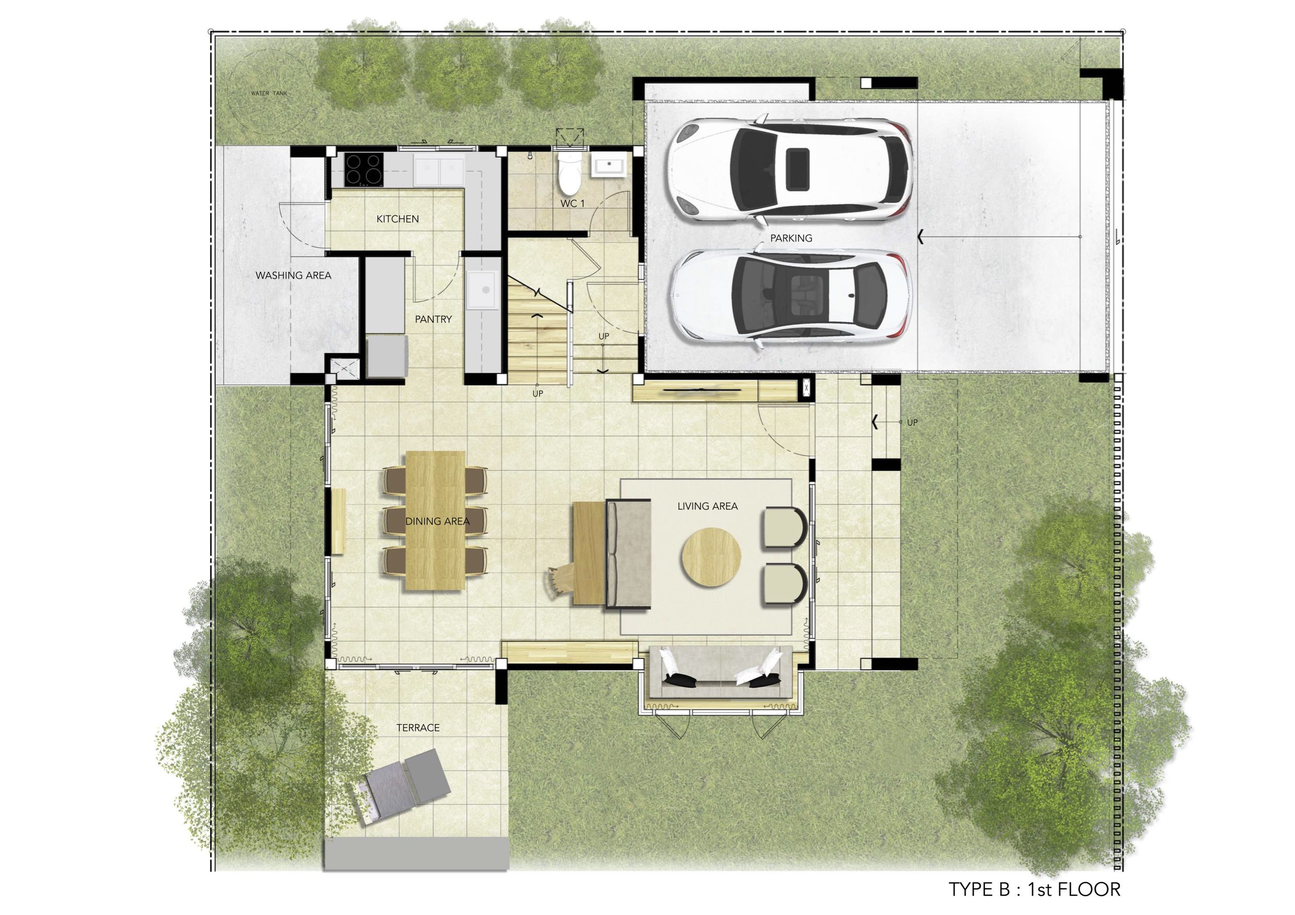
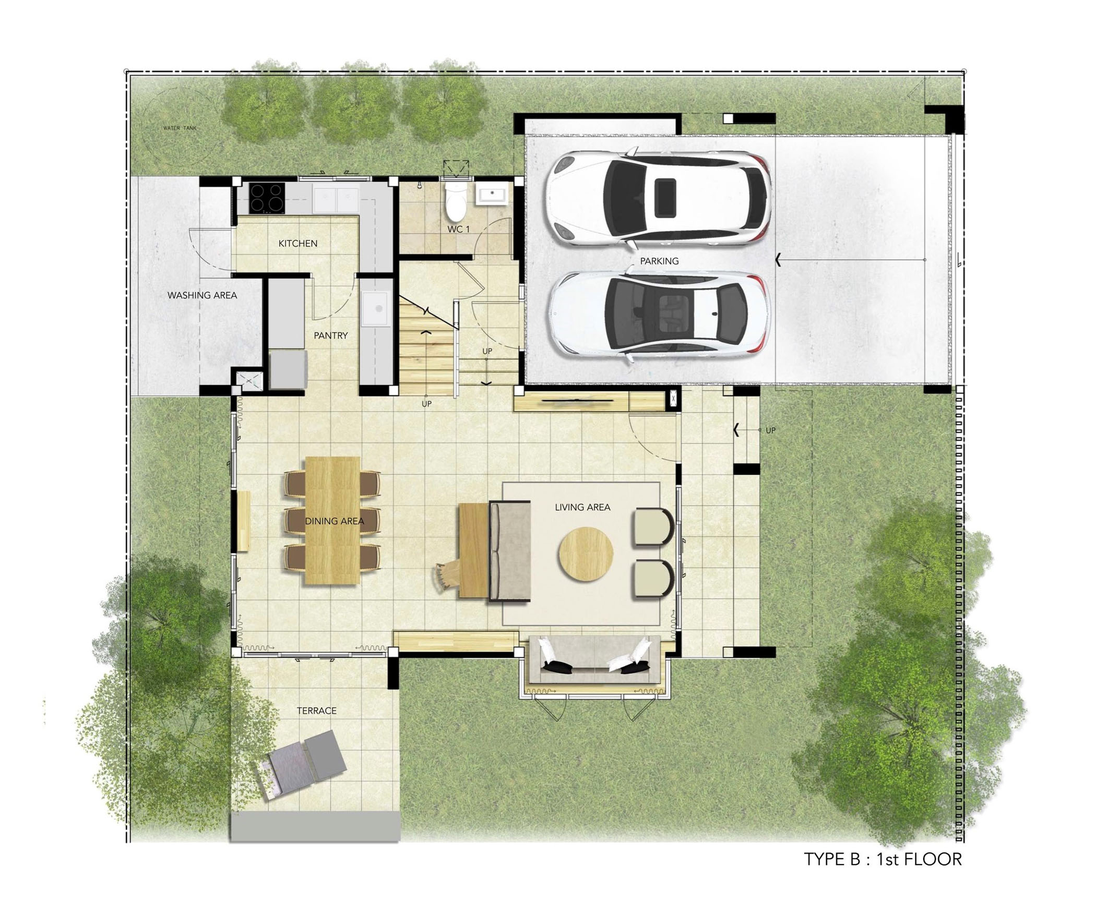
Fix img on com

diff --git a/app/views/index.php b/app/views/index.php
@@ -298,15 +298,15 @@
 		<div class="slide planFloor" id="planAFloor" name="<?= Lang::get('content.floorPlan') ?>">
 			<div class="sideCover">
 				<div class="floorPlan">
-					<a class="fancybox" rel="fancybox" href="imgs/A1.jpg" title="">
-						<img src="imgs/A1.jpg" alt="" />
+					<a class="fancybox" rel="fancybox" href="imgs/A1com.jpg" title="">
+						<img src="imgs/A1com.jpg" alt="" />
 					</a>
 					<p class="textTopic"><?= Lang::get('content.planADownTopic') ?></p>
 					<div class="textLeft textDesp"><?= Lang::get('content.planADownContent') ?></div>
 				</div>
 				<div class="floorPlan">
-					<a class="fancybox" rel="fancybox" href="imgs/A2.jpg" title="">
-						<img src="imgs/A2.jpg" alt="" />
+					<a class="fancybox" rel="fancybox" href="imgs/A2com.jpg" title="">
+						<img src="imgs/A2com.jpg" alt="" />
 					</a>
 					<p class="textTopic"><?= Lang::get('content.planAUpTopic') ?></p>
 					<div class="textLeft textDesp"><?= Lang::get('content.planAUpContent') ?></div>
@@ -327,15 +327,15 @@
 		<div class="slide planFloor" id="planBFloor" name="<?= Lang::get('content.floorPlan') ?>">
 			<div class="sideCover">
 				<div class="floorPlan">
-					<a class="fancybox" rel="fancybox" href="imgs/B1.jpg" title="">
-						<img src="imgs/B1.jpg" alt="" />
+					<a class="fancybox" rel="fancybox" href="imgs/B1com.jpg" title="">
+						<img src="imgs/B1com.jpg" alt="" />
 					</a>
 					<p class="textTopic"><?= Lang::get('content.planBDownTopic') ?></p>
 					<div class="textDesp"><?= Lang::get('content.planBDownContent') ?></div>
 				</div>
 				<div class="floorPlan">
-					<a class="fancybox" rel="fancybox" href="imgs/B2.jpg" title="">
-						<img src="imgs/B2.jpg" alt="" />
+					<a class="fancybox" rel="fancybox" href="imgs/B2com.jpg" title="">
+						<img src="imgs/B2com.jpg" alt="" />
 					</a>
 					<p class="textTopic"><?= Lang::get('content.planBUpTopic') ?></p>
 					<div class="textDesp"><?= Lang::get('content.planBUpContent') ?></div>
